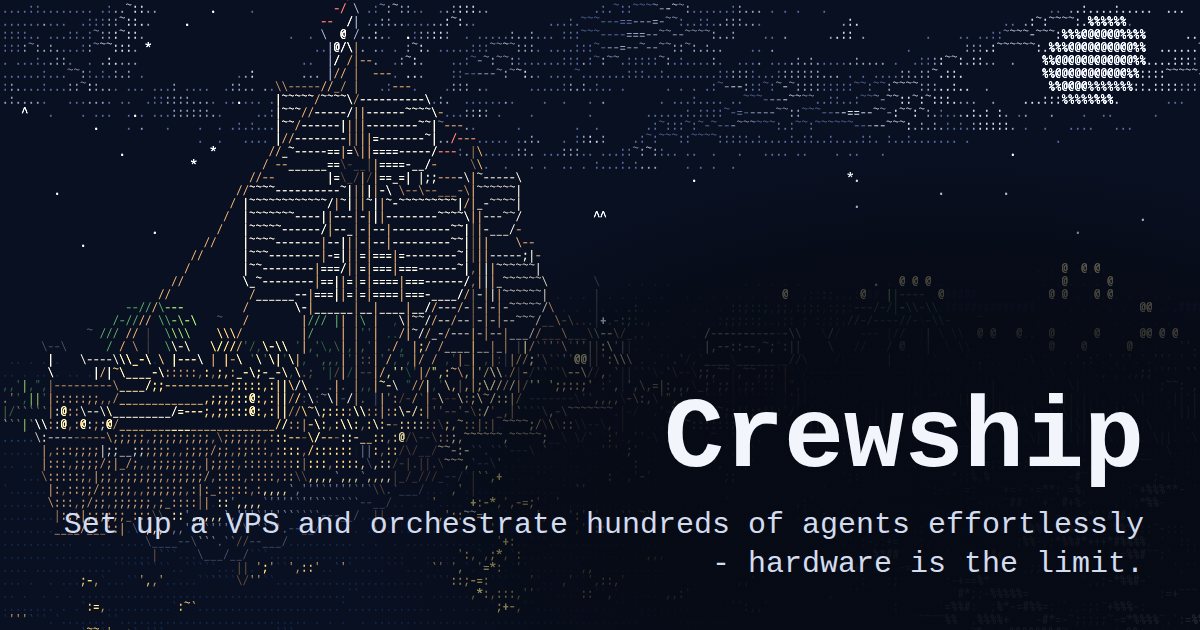
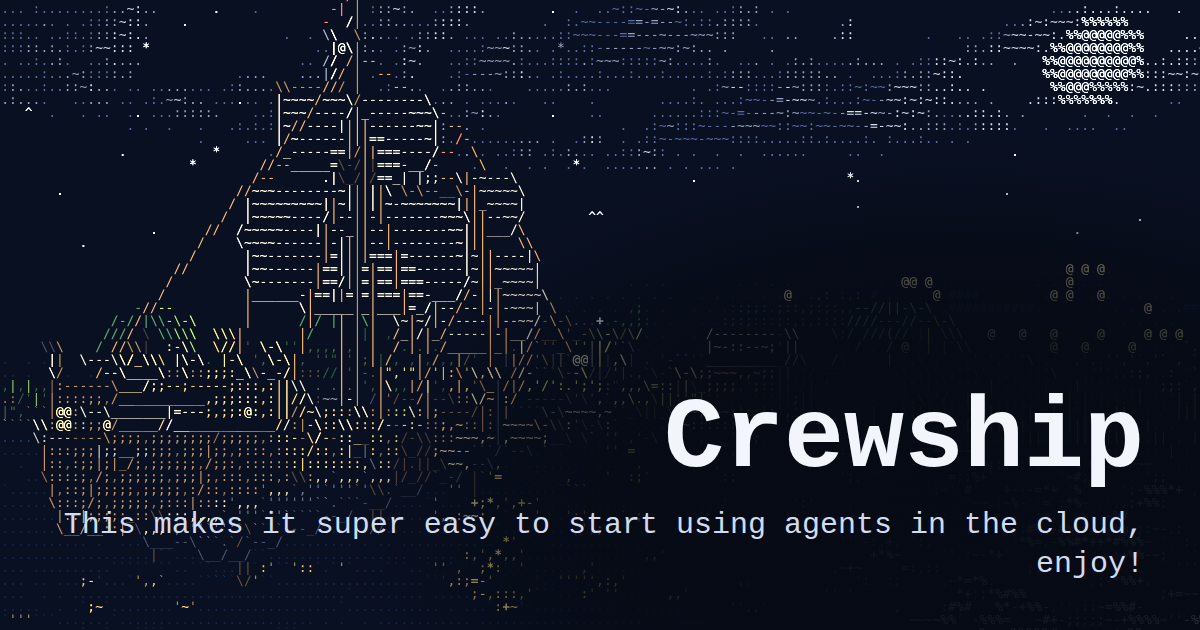
docs: set README tagline to the new wording
Closes #296

diff --git a/harbor/public/index.html b/harbor/public/index.html
@@ -4,11 +4,11 @@
 <meta charset="utf-8">
 <meta name="viewport" content="width=device-width, initial-scale=1, viewport-fit=cover">
 <title>Crewship: a reproducible AI-agent coding host</title>
-<meta name="description" content="Set up a VPS and orchestrate hundreds of agents effortlessly - hardware is the limit.">
+<meta name="description" content="This makes it super easy to start using agents in the cloud, enjoy!">
 <meta property="og:type" content="website">
 <meta property="og:url" content="https://crewship.si/">
 <meta property="og:title" content="Crewship">
-<meta property="og:description" content="Set up a VPS and orchestrate hundreds of agents effortlessly - hardware is the limit.">
+<meta property="og:description" content="This makes it super easy to start using agents in the cloud, enjoy!">
 <meta property="og:image" content="https://crewship.si/og.png">
 <meta property="og:image:width" content="1200">
 <meta property="og:image:height" content="630">

diff --git a/README.md b/README.md
@@ -2,7 +2,7 @@
 
 # 🚢 Crewship
 
-**Set up a VPS and orchestrate hundreds of agents effortlessly - hardware is the limit.**
+**This makes it super easy to start using agents in the cloud, enjoy!**
 
 [![CI](https://img.shields.io/github/actions/workflow/status/i098/Crewship/ci.yml?branch=main&style=for-the-badge&logo=githubactions&logoColor=white&label=CI)](https://github.com/i098/Crewship/actions/workflows/ci.yml)
 [![Release](https://img.shields.io/github/v/release/i098/Crewship?style=for-the-badge&logo=github&label=&color=2563eb)](https://github.com/i098/Crewship/releases/latest)
@@ -18,8 +18,6 @@
 *A finished host: Herdr lists the workspaces and agents on the left, and omp agents work side by side.*
 
 </div>
-
-Crewship makes it super easy to start using agents in the cloud.
 
 ## Features
 

diff --git a/changelog.d/296.changed.md b/changelog.d/296.changed.md
@@ -1,0 +1,1 @@
+README tagline is now "This makes it super easy to start using agents in the cloud, enjoy!", and the landing page and npm package descriptions match it.
